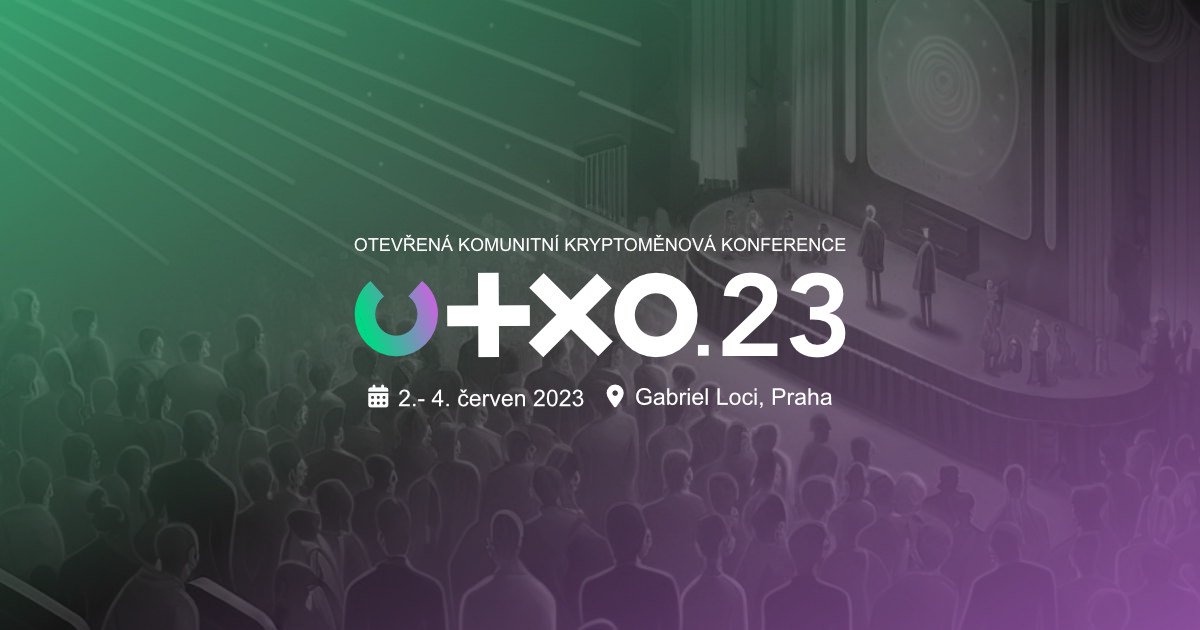
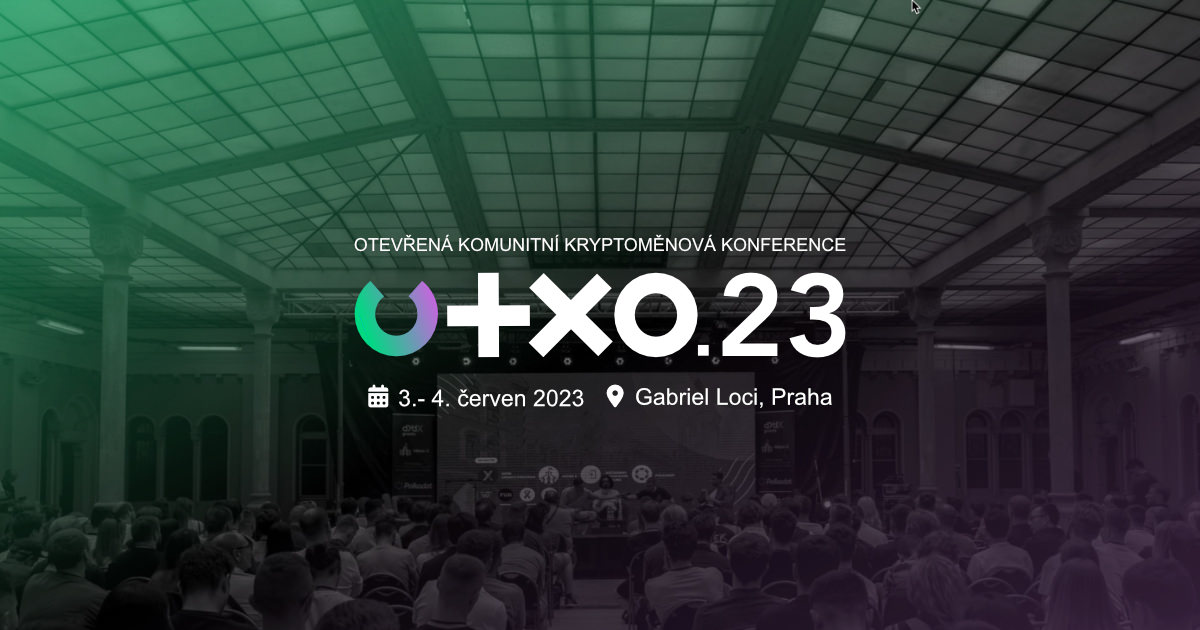
update images and dates

diff --git a/src/app.html b/src/app.html
@@ -2,12 +2,12 @@
 <html lang="en">
 	<head>
 		<meta charset="utf-8" />
-		<meta name="description" content="2.-4. červen 2023 - TBD, Praha - První ročník komunitní konference o blockchainu a kryptoměnách." />
+		<meta name="description" content="3.-4. červen 2023 - TBD, Praha - První ročník komunitní konference o blockchainu a kryptoměnách." />
     <meta name="twitter:card" content="summary" />
     <meta name="twitter:site" content="@utxoprague" />
-    <meta name="twitter:title" content="UTXO.23 | 2.-4. červen 2023, 🇨🇿 Praha" />
+    <meta name="twitter:title" content="UTXO.23 | 3.-4. červen 2023, 🇨🇿 Praha" />
     <meta name="twitter:description" content="Otevřená komunitní kryptoměnová konference. 2 dny, 50+ přednášejích, 100h+ obsahu, 1000+ návštěvníků" />
-    <meta name="twitter:image" content="https://utxo.cz/img/banner2.jpg" />
+    <meta name="twitter:image" content="https://utxo.cz/img/banner.jpg" />
     <meta name="theme-color" content="#393F67" />
 
 		<link rel="icon" href="%sveltekit.assets%/favicon.png" />

diff --git a/src/routes/tv-screen/+page.svelte b/src/routes/tv-screen/+page.svelte
@@ -68,9 +68,9 @@
 
 
 {#if data.bundle && event}
-  <div style="width: 1920px; height: 1080px;" class="relative bg-[url('/img/tv-bg.png')] text-white/50 text-xl" id="utxo-tv">
+  <div style="width: 1920px; height: 1080px;" class="relative bg-[url('/img/tv-bg.jpg')] text-white/50 text-xl" id="utxo-tv">
     <div class="absolute bottom-20 left-20">
-      <img src="/img/logo-white.svg" style="width: 520px;" />
+      <img src="/img/logo.svg" style="width: 520px;" />
     </div>
     <div class="flex" style="height: 900px;">
       <div class="my-auto text-white text-8xl pl-20 pr-20">

diff --git a/src/lib/header/Header.svelte b/src/lib/header/Header.svelte
@@ -68,7 +68,7 @@ class="relative bg-center bg-cover {$page.url.pathname !== '/tv'
             >
               <i class="fa-regular fa-calendar-days text-custom-white" />
             </div>
-            <div class="text-white">2.-4. červen 2023</div>
+            <div class="text-white">3.-4. červen 2023</div>
           </div>
           <div class="flex items-center gap-3">
             <div

diff --git a/src/routes/kiosk/+page.svelte b/src/routes/kiosk/+page.svelte
@@ -67,7 +67,7 @@
         <div class="text-center m-auto">
           <div class="mb-10">Obrazovka I.</div>
           <div class="mb-10 text-4xl">{stage.name}</div>
-          <img src="/img/logo-white.svg" class="w-100" />
+          <img src="/img/logo.svg" class="w-100" />
           <div class="mt-10">Zde budou sponzoři, partneři, atp...</div>
         </div>
       {/if}

diff --git a/src/lib/Footer.svelte b/src/lib/Footer.svelte
@@ -19,7 +19,7 @@
           >
         </div>
         <div class="mt-4 font-semibold">
-          2.-4. červen 2023 @ Gabriel Loci, Praha
+          3.-4. červen 2023 @ Gabriel Loci, Praha
         </div>
         <div class="mt-2 font-thin">
           Otevřená komunitní kryptoměnová konference
